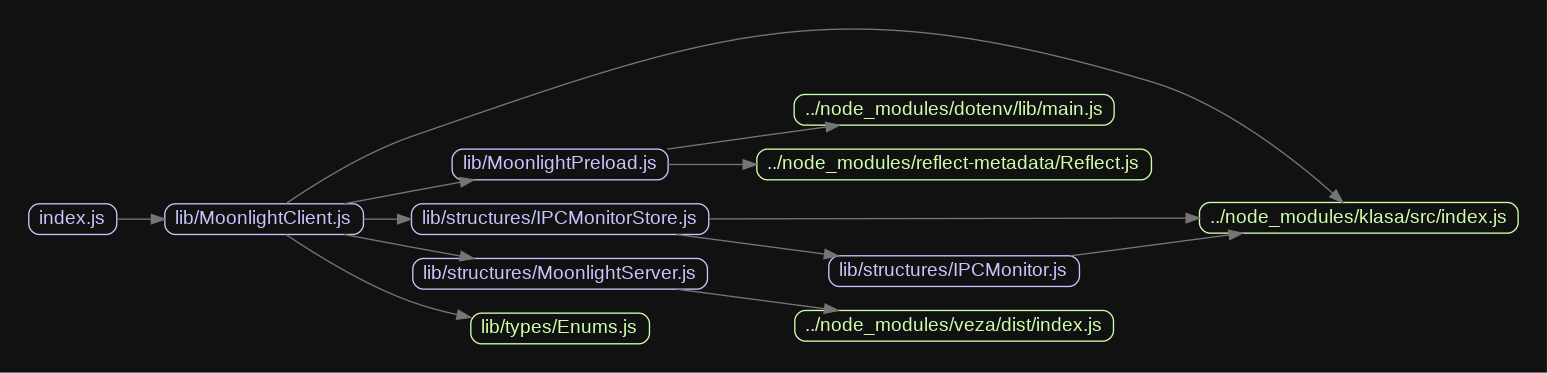
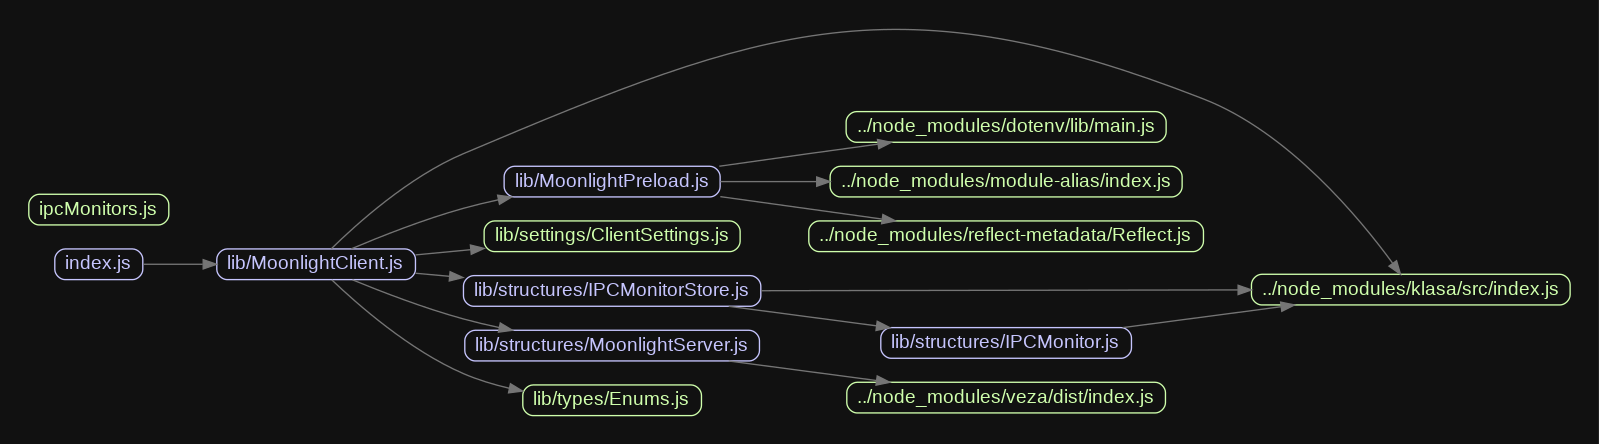
deps: remove module aliasing

diff --git a/src/lib/MoonlightClient.ts b/src/lib/MoonlightClient.ts
@@ -1,10 +1,10 @@
+import { User } from 'discord.js';
 import { Client, Colors, KlasaClientOptions } from 'klasa';
 import './MoonlightPreload';
+import { ClientSettings } from './settings/ClientSettings';
 import { IPCMonitorStore } from './structures/IPCMonitorStore';
 import { MoonlightIPCServer as MoonlightServer } from './structures/MoonlightServer';
 import { Events, Sockets } from './types/Enums';
-import { ClientSettings } from './settings/ClientSettings';
-import { User } from 'discord.js';
 
 const g = new Colors({ text: 'green' }).format('[IPC   ]');
 const y = new Colors({ text: 'yellow' }).format('[IPC   ]');

diff --git a/src/lib/MoonlightPreload.ts b/src/lib/MoonlightPreload.ts
@@ -1,13 +1,4 @@
 import { config } from 'dotenv';
-import { addAliases } from 'module-alias';
-import { resolve } from 'path';
 import 'reflect-metadata';
-
-addAliases({
-	'@settings': resolve(__dirname, 'settings'),
-	'@structures': resolve(__dirname, 'structures'),
-	'@typings': resolve(__dirname, 'types'),
-	'@utils': resolve(__dirname, 'util')
-});
 
 config();

diff --git a/src/lib/types/augment.d.ts b/src/lib/types/augment.d.ts
@@ -1,5 +1,5 @@
 import { Server as VezaServer } from 'veza';
-import { IPCMonitorStore } from '@structures/IPCMonitorStore';
+import { IPCMonitorStore } from '../structures/IPCMonitorStore';
 import { Sockets } from './Enums';
 
 declare module 'discord.js' {

diff --git a/src/lib/util/Decorators.ts b/src/lib/util/Decorators.ts
@@ -1,5 +1,5 @@
 import { PieceOptions, Piece, Store } from 'klasa';
-import { Constructor } from '@typings/Types';
+import { Constructor } from '../types/Types';
 
 export function createClassDecorator(fn: Function): Function {
 	return fn;

diff --git a/src/ipcMonitors/eval.ts b/src/ipcMonitors/eval.ts
@@ -1,5 +1,5 @@
 import { inspect } from 'util';
-import { IPCMonitor } from '@structures/IPCMonitor';
+import { IPCMonitor } from '../lib/structures/IPCMonitor';
 
 export default class extends IPCMonitor {
 
